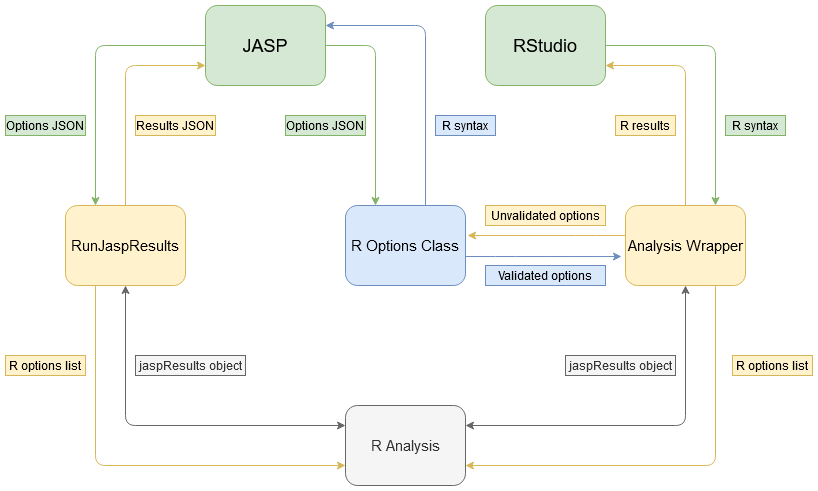
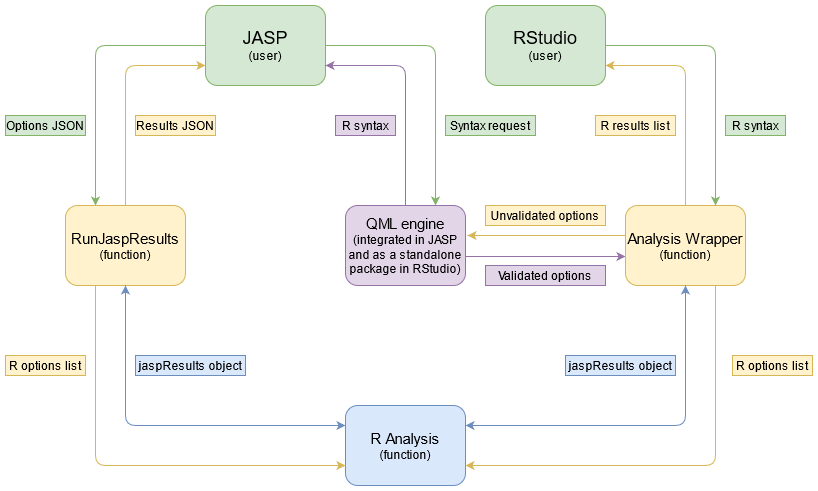
Replace options class by qmlEngine package - start

diff --git a/syntax-revised.md b/syntax-revised.md
@@ -9,19 +9,16 @@
   - [Analyses](#analyses)
       - [Formulas](#formulas)
 - [Part III. Implementation Details](#part-iii-implementation-details)
-  - [Creating the Syntax Mode Building Blocks](#creating-the-syntax-mode-building-blocks)
-    - [Obtaining the Necessary Information](#obtaining-the-necessary-information)
+  - [The Syntax Mode Framework](#the-syntax-mode-framework)
+    - [QML Engine (jaspQml)](#qml-engine-jaspqml)
+    - [Analysis Wrapper](#analysis-wrapper)
       - [Additional Thoughts](#additional-thoughts)
-    - [The Wrapper](#the-wrapper)
-      - [Additional Thoughts](#additional-thoughts-1)
     - [The Formula](#the-formula)
-      - [Additional Thoughts](#additional-thoughts-2)
-    - [The Options Class](#the-options-class)
-      - [Additional Thoughts](#additional-thoughts-3)
+      - [Additional Thoughts](#additional-thoughts-1)
   - [User Interaction with the Syntax Mode within JASP](#user-interaction-with-the-syntax-mode-within-jasp)
     - [Displaying Syntax in JASP](#displaying-syntax-in-jasp)
     - [Running Syntax in the JASP R Editor](#running-syntax-in-the-jasp-r-editor)
-      - [Additional Thoughts](#additional-thoughts-4)
+      - [Additional Thoughts](#additional-thoughts-2)
   - [User Interaction with the Syntax Mode within RStudio](#user-interaction-with-the-syntax-mode-within-rstudio)
     - [Package Eco-system](#package-eco-system)
     - [Running Environment](#running-environment)
@@ -135,120 +132,28 @@ anova(dep = "contNormal",
 
 # Part III. Implementation Details
 
-There are two aspects to the Syntax Mode implementation. Firstly, there is creation of the basic building blocks behind the Syntax Mode. Secondly, there is the interaction of the user with those building blocks. The following flow charts show a basic visual idea of the data flow for these two aspects.
-Creating the building blocks:
+The Syntax Mode framework will consist of a number of new R packages and demand multiple UI and backend changes in JASP. The following flow charts show the basic components and how module developers and users will interact with them.
+
+Developer interaction in RStudio:
 
 ![image info](flow-chart-developer-syntax-mode.png)
 
-User interaction with those building blocks through JASP and RStudio:
+User interaction in JASP and RStudio:
 
 ![image info](flow-chart-user-syntax-mode.png)
 
 
-## Creating the Syntax Mode Building Blocks
+## The Syntax Mode Framework
 
-### Obtaining the Necessary Information
-The R Options Class and Wrapper can be automatically generated by an R script, however, this R script will require a summary of analysis.qml and Description.qml. Considering writing a good QML parser is not trivial it makes sense we use either the JASP executable for this (through a shell command), or include a binary with jaspTools that can do this. Ideally, this function will be callable from R so users can do most of their developing in RStudio. The output should be JSON that summarizes each component, with the following minimum information:
+### QML Engine (jaspQml)
+- needs to encode options
+- needs to validate options
+- needs to parse formula's (or this is done by wrapper; if not wrapper important that some formula items are specific to type of data column -- e.g., something is a covariate when it's a numeric. Also important that if we do not do this in wrapper then it will not be possible to make this qml package optional)
+- needs to generate syntax from specified options within JASP
+- needs to generate analysis wrapper (with roxygen comments, specifying what input needs to look like in R terms; this could also be done by R functions)
+- It's important that jaspQml can pass R CMD CHECK and be allowed on CRAN; otherwise it cannot be a proper dependency
 
-- Name
-- Type (e.g., checkbox, radiobutton)
-- Default value
-- Validation checks (e.g., min, max)
-- Info
-
-<details>
-
-<summary>Example summary of three components</summary>
-
-Description.qml:
-```
-...
-	"menu":
-	[
-		{
-			"title":    "ANOVA",
-			"function":	"anova"
-		}
-    ]
-```
-
-analysis.qml:
-```
-Form 
-{
-    info: "Allows the user to analyze the difference between multiple group means."
-
-    AssignedVariablesList 
-    { 
-        name: "fixedFactors"
-        title: qsTr("Fixed Factors")
-        allowedColumns: ["ordinal", "nominal"]
-        info: "The variables that are manipulated/define the different groups."
-    }
-
-    CheckBox 
-    { 
-        name: "descriptives";	
-        label: qsTr("Descriptive statistics")
-        info: "Descriptives for each combination of levels of the independent variables."
-        childrenOnSameRow: true
-        CIField { name: "ci"; info: "% confidence interval" }	
-    }
-}
-```
-Generated summary:
-```
-{
-    "function": "anova",
-    "info": "Allows the user to analyze the difference between multiple group means.",
-
-    "options": 
-    [
-        {
-            "name": "fixedFactors",
-            "type": "variables",
-            "allowed": ["ordinal", "nominal"],
-            "default": "",
-            "info": "The variables that are manipulated/define the different groups."
-        },
-
-        {
-            "name": "descriptives",
-            "type": "bool",
-            "default": false,
-            "info": "Descriptives for each combination of levels of the independent variables."
-        },
-
-        {
-            "name": "ci",
-            "type": "double",
-            "min": 0,
-            "max": 100,
-            "default": 95,
-            "info": "% confidence interval"
-        }
-    ]
-}
-```
-
-Header of the Wrapper we could create from this:
-```
-#' Allows the user to analyze the difference between multiple group means.
-#'
-#' @param fixedFactors The variables that are manipulated/define the different groups.
-#' @param descriptives Descriptives for each combination of levels of the independent variables.
-#' @param ci % confidence interval.
-anova <- function(fixedFactors = "", descriptives = FALSE, ci = 95) {
-    ...
-}
-```
-
-</details>
-
-#### Additional Thoughts
-- There could be a problem with default values based on js logic; the qml needs to be run to figure out the true default configuration.
-
-### The Wrapper
+### Analysis Wrapper
 The Wrapper is what users interact with when running the analysis syntax in RStudio or the JASP R editor. It's what handles the formula, translates the syntax back into an R options list and makes sure validation occurs by calling the Options Class. Furthermore, the Wrapper should deal with the setup and breakdown of the jaspResults object.
 
 <details>
@@ -687,17 +592,6 @@ main(single        = col1,
 ```
 
 </details>
-
-### The Options Class
-The Options Class plays two parts. Firstly, it returns the R syntax for a given set of JSON options in JASP and secondly it validates and returns R options for supplied syntax to the Wrapper. The extremely basic idea is to create an R6 `jaspOptions` class in `jaspBase` which defines logic for each component type (checkbox, radiobutton). The generated Options Class can then inherit from `jaspOptions` and apply the parent logic to all the qml components for a specific analysis. `jaspOptions` should implement:
-- `jaspOptions$new(options)`
-- `jaspOptions$validate()`
-- `jaspOptions$toSyntax()`
-
-#### Additional Thoughts
-- Should validation based on javascript be incorporated (e.g., when the `min` of an `IntegerField` depends on a different component's value)?
-- Should the enabled status of components be taken into account? Inclined to say no, the programmer should be defensive in his programming (e.g., if `ci` is not checked the analysis shouldn't do anything with `ciLevel`).
-- In addition to performing basic validation (e.g., `ciLevel < 1`), every component should also be checked for allowed "missing values" (e.g., `list()`) and their allowed "filled values" (e.g., `list(list(component = "contBinom"))`), this will ensure the correctness of the supplied options.
 
 ## User Interaction with the Syntax Mode within JASP
 
